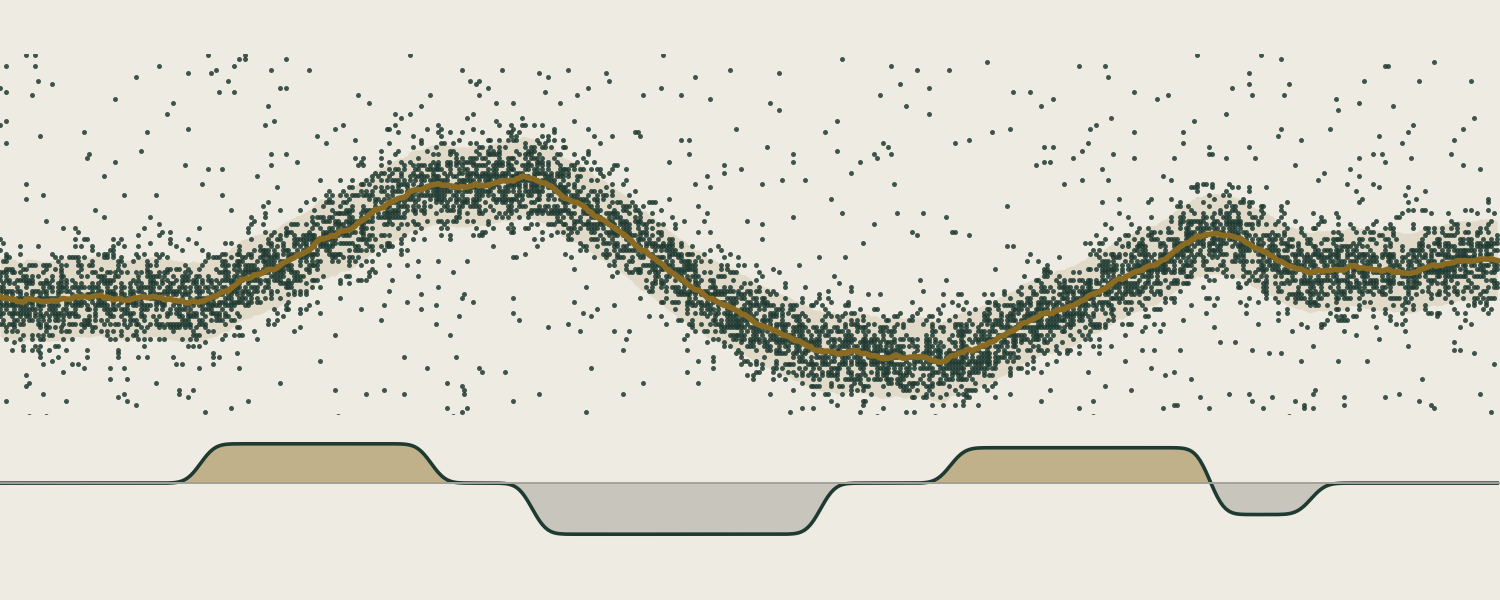
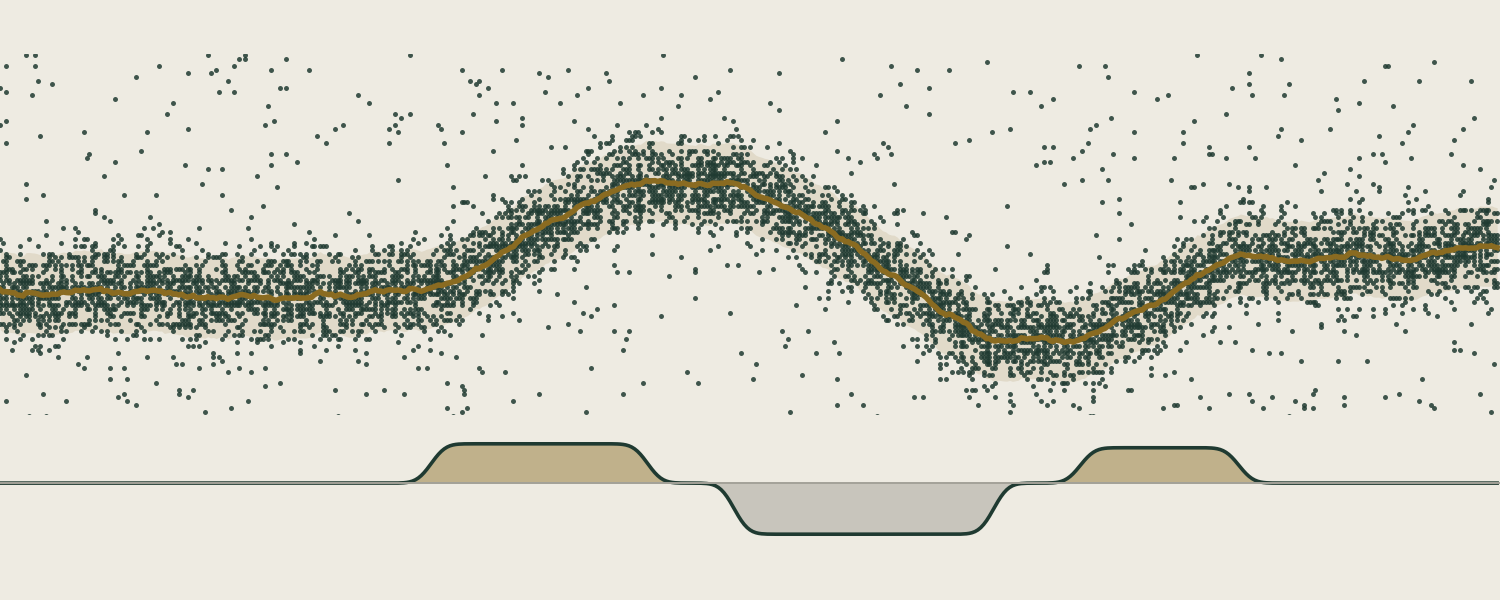
Teaching: predator-flock math bio thumbnail; raster holds, pushes, holds

Changed region(s): [[0.0, 0.21, 1.0, 0.69], [0.1227, 0.72, 0.736, 0.9], [0.7973, 0.72, 0.8893, 0.87]]

diff --git a/teaching.html b/teaching.html
@@ -1,1 +1,1 @@
-<!doctype html><html lang="en"><head><meta charset="utf-8"><meta name="viewport" content="width=device-width, initial-scale=1"><meta name="description" content="Zack Kilpatrick studies the mathematics of decisions, collective behavior, and memory at the University of Colorado Boulder."><meta name="theme-color" content="#1f3a31"><title>Teaching | Zack Kilpatrick</title><link rel="icon" href="assets/mark.svg" type="image/svg+xml"><link rel="stylesheet" href="assets/site.css?v=56"><script defer src="assets/site.js?v=23"></script></head><body class="academic"><a class="skip" href="#main">Skip to content</a><header class="site-header"><a class="brand" href="index.html"><span>Zack Kilpatrick<small>APPLIED MATHEMATICS · UNIVERSITY OF COLORADO BOULDER</small></span></a><button class="menu-button" aria-expanded="false" aria-controls="navigation">Menu</button><nav id="navigation" aria-label="Main navigation"><a href="research.html">Research</a><a href="publications.html">Publications</a><a href="group.html">Group</a><a href="teaching.html" aria-current="page">Teaching</a><a href="demos.html">Demos</a><a href="consulting.html">Consulting</a></nav></header><main id="main"><section class="page-intro wrap"><h1>Teaching</h1><p class="lede">Courses in applied mathematics, computational neuroscience, and mathematical biology. Most courses end with a project on a current research question.</p></section><section class="wrap course-grid"><article class="course"><img class="course-thumb" src="images/teaching/compneuro.png?v=5" alt="" loading="lazy" width="1500" height="600"><p class="eyebrow">APPM 4370 / 5370</p><h2>Computational Neuroscience</h2><p class="course-term">Fall 2026; previously 2024, 2023, 2021, 2020</p><p>Introduces mathematical and computational models of neurons, neural networks, and cognition. Topics include single-neuron dynamics, synaptic plasticity, recurrent network models, and attractor dynamics, with numerical simulation throughout and a final research project. I developed this course and have taught it at CU Boulder since 2020.</p></article><article class="course"><img class="course-thumb" src="images/teaching/markov.png?v=5" alt="" loading="lazy" width="1500" height="600"><p class="eyebrow">APPM 4560 / 5560</p><h2>Markov Processes</h2><p class="course-term">Fall 2026, 2025</p><p>Studies stochastic processes with the Markov property. Topics include discrete- and continuous-time Markov chains, Poisson processes, stationary distributions, and long-run behavior, with applications to models of random systems.</p></article><article class="course"><img class="course-thumb" src="images/teaching/mathbio.png?v=5" alt="" loading="lazy" width="1500" height="600"><p class="eyebrow">APPM 4390 / 5390</p><h2>Mathematical Biology</h2><p class="course-term">Spring 2026</p><p>Introduces mathematical modeling of biological systems. Topics include population dynamics, interacting species, feedback and regulation, and spatial effects, using both analytical and computational methods.</p></article><article class="course"><img class="course-thumb" src="images/teaching/pde.png?v=5" alt="" loading="lazy" width="1500" height="600"><p class="eyebrow">APPM 5470</p><h2>Partial Differential & Integral Equations</h2><p class="course-term">2024, 2020, 2019, 2018</p><p>Covers the theory and solution of partial and integral equations. Topics include classification of equations, analytical solution techniques, and properties of solutions.</p></article><article class="course"><img class="course-thumb" src="images/teaching/nonlinear.png?v=5" alt="" loading="lazy" width="1500" height="600"><p class="eyebrow">APPM 3010</p><h2>Nonlinear Dynamics & Chaos</h2><p class="course-term">Fall 2021</p><p>Introduces the analysis of nonlinear dynamical systems. Topics include stability, bifurcations, limit cycles, and chaos.</p></article><article class="course"><img class="course-thumb" src="images/teaching/approx.png?v=5" alt="" loading="lazy" width="1500" height="600"><p class="eyebrow">APPM 5480</p><h2>Approximation Methods</h2><p class="course-term">Spring 2021</p><p>Covers asymptotic and perturbation methods for problems that cannot be solved exactly. Topics include dominant balance, regular and singular perturbation theory, and reduced descriptions of complex systems.</p></article></section><section class="wrap teaching-note"><h2>Also taught at CU Boulder</h2><dl class="alumni"><div><dt>APPM 3570 <span>Applied Probability</span></dt><dd>Spring 2018, 2017</dd></div><div><dt>APPM 2360 <span>Differential Equations with Linear Algebra</span></dt><dd>Spring 2019</dd></div><div><dt>APPM 4350 <span>Fourier Series &amp; Boundary Value Problems</span></dt><dd>Fall 2016</dd></div></dl></section><section class="wrap teaching-note"><div class="intro-row"><div class="intro-head"><h2>Seminars and the graduate program</h2></div><div><p>I organize <strong>APPM 8400: Mathematical Biology Seminar</strong>, which brings visiting speakers and CU researchers together around mathematical modeling in the life sciences.</p><p>I helped redesign <strong>APPM 7400: Introduction to Research</strong>, and introduced <strong>APPM 7400: Graduate Research Seminar</strong>, so that journal club and student research presentations are part of the first and second years of the PhD program.</p></div></div></section></main><footer><div><a class="footer-name" href="index.html">Zack Kilpatrick</a><p>Professor of Applied Mathematics<br>University of Colorado Boulder</p></div><div><a href="mailto:zpkilpat@colorado.edu">zpkilpat@colorado.edu</a><p><a href="zpk_cv.pdf">CV (PDF)</a> · <a href="https://scholar.google.com/citations?user=w-RYt7kAAAAJ">Google Scholar</a> · <a href="https://github.com/zpkilpat">GitHub</a> · <a href="https://www.linkedin.com/in/zachary-kilpatrick-5b7339397/">LinkedIn</a></p></div><small>© 2026 Zack Kilpatrick</small></footer></body></html>
+<!doctype html><html lang="en"><head><meta charset="utf-8"><meta name="viewport" content="width=device-width, initial-scale=1"><meta name="description" content="Zack Kilpatrick studies the mathematics of decisions, collective behavior, and memory at the University of Colorado Boulder."><meta name="theme-color" content="#1f3a31"><title>Teaching | Zack Kilpatrick</title><link rel="icon" href="assets/mark.svg" type="image/svg+xml"><link rel="stylesheet" href="assets/site.css?v=56"><script defer src="assets/site.js?v=23"></script></head><body class="academic"><a class="skip" href="#main">Skip to content</a><header class="site-header"><a class="brand" href="index.html"><span>Zack Kilpatrick<small>APPLIED MATHEMATICS · UNIVERSITY OF COLORADO BOULDER</small></span></a><button class="menu-button" aria-expanded="false" aria-controls="navigation">Menu</button><nav id="navigation" aria-label="Main navigation"><a href="research.html">Research</a><a href="publications.html">Publications</a><a href="group.html">Group</a><a href="teaching.html" aria-current="page">Teaching</a><a href="demos.html">Demos</a><a href="consulting.html">Consulting</a></nav></header><main id="main"><section class="page-intro wrap"><h1>Teaching</h1><p class="lede">Courses in applied mathematics, computational neuroscience, and mathematical biology. Most courses end with a project on a current research question.</p></section><section class="wrap course-grid"><article class="course"><img class="course-thumb" src="images/teaching/compneuro.png?v=7" alt="" loading="lazy" width="1500" height="600"><p class="eyebrow">APPM 4370 / 5370</p><h2>Computational Neuroscience</h2><p class="course-term">Fall 2026; previously 2024, 2023, 2021, 2020</p><p>Introduces mathematical and computational models of neurons, neural networks, and cognition. Topics include single-neuron dynamics, synaptic plasticity, recurrent network models, and attractor dynamics, with numerical simulation throughout and a final research project. I developed this course and have taught it at CU Boulder since 2020.</p></article><article class="course"><img class="course-thumb" src="images/teaching/markov.png?v=7" alt="" loading="lazy" width="1500" height="600"><p class="eyebrow">APPM 4560 / 5560</p><h2>Markov Processes</h2><p class="course-term">Fall 2026, 2025</p><p>Studies stochastic processes with the Markov property. Topics include discrete- and continuous-time Markov chains, Poisson processes, stationary distributions, and long-run behavior, with applications to models of random systems.</p></article><article class="course"><img class="course-thumb" src="images/teaching/mathbio.png?v=7" alt="" loading="lazy" width="1500" height="600"><p class="eyebrow">APPM 4390 / 5390</p><h2>Mathematical Biology</h2><p class="course-term">Spring 2026</p><p>Introduces mathematical modeling of biological systems. Topics include population dynamics, interacting species, feedback and regulation, and spatial effects, using both analytical and computational methods.</p></article><article class="course"><img class="course-thumb" src="images/teaching/pde.png?v=7" alt="" loading="lazy" width="1500" height="600"><p class="eyebrow">APPM 5470</p><h2>Partial Differential & Integral Equations</h2><p class="course-term">2024, 2020, 2019, 2018</p><p>Covers the theory and solution of partial and integral equations. Topics include classification of equations, analytical solution techniques, and properties of solutions.</p></article><article class="course"><img class="course-thumb" src="images/teaching/nonlinear.png?v=7" alt="" loading="lazy" width="1500" height="600"><p class="eyebrow">APPM 3010</p><h2>Nonlinear Dynamics & Chaos</h2><p class="course-term">Fall 2021</p><p>Introduces the analysis of nonlinear dynamical systems. Topics include stability, bifurcations, limit cycles, and chaos.</p></article><article class="course"><img class="course-thumb" src="images/teaching/approx.png?v=7" alt="" loading="lazy" width="1500" height="600"><p class="eyebrow">APPM 5480</p><h2>Approximation Methods</h2><p class="course-term">Spring 2021</p><p>Covers asymptotic and perturbation methods for problems that cannot be solved exactly. Topics include dominant balance, regular and singular perturbation theory, and reduced descriptions of complex systems.</p></article></section><section class="wrap teaching-note"><h2>Also taught at CU Boulder</h2><dl class="alumni"><div><dt>APPM 3570 <span>Applied Probability</span></dt><dd>Spring 2018, 2017</dd></div><div><dt>APPM 2360 <span>Differential Equations with Linear Algebra</span></dt><dd>Spring 2019</dd></div><div><dt>APPM 4350 <span>Fourier Series &amp; Boundary Value Problems</span></dt><dd>Fall 2016</dd></div></dl></section><section class="wrap teaching-note"><div class="intro-row"><div class="intro-head"><h2>Seminars and the graduate program</h2></div><div><p>I organize <strong>APPM 8400: Mathematical Biology Seminar</strong>, which brings visiting speakers and CU researchers together around mathematical modeling in the life sciences.</p><p>I helped redesign <strong>APPM 7400: Introduction to Research</strong>, and introduced <strong>APPM 7400: Graduate Research Seminar</strong>, so that journal club and student research presentations are part of the first and second years of the PhD program.</p></div></div></section></main><footer><div><a class="footer-name" href="index.html">Zack Kilpatrick</a><p>Professor of Applied Mathematics<br>University of Colorado Boulder</p></div><div><a href="mailto:zpkilpat@colorado.edu">zpkilpat@colorado.edu</a><p><a href="zpk_cv.pdf">CV (PDF)</a> · <a href="https://scholar.google.com/citations?user=w-RYt7kAAAAJ">Google Scholar</a> · <a href="https://github.com/zpkilpat">GitHub</a> · <a href="https://www.linkedin.com/in/zachary-kilpatrick-5b7339397/">LinkedIn</a></p></div><small>© 2026 Zack Kilpatrick</small></footer></body></html>
